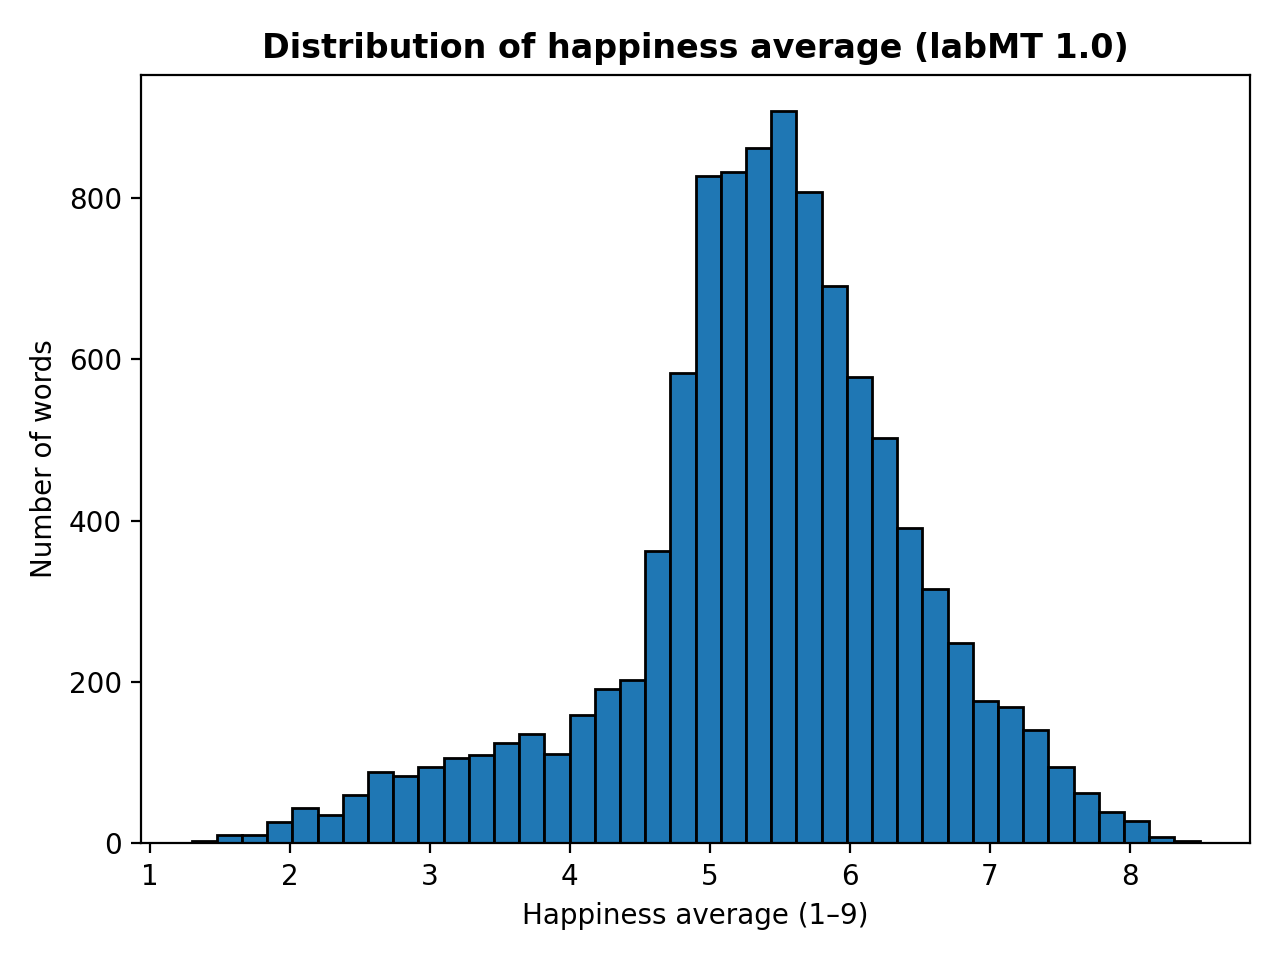
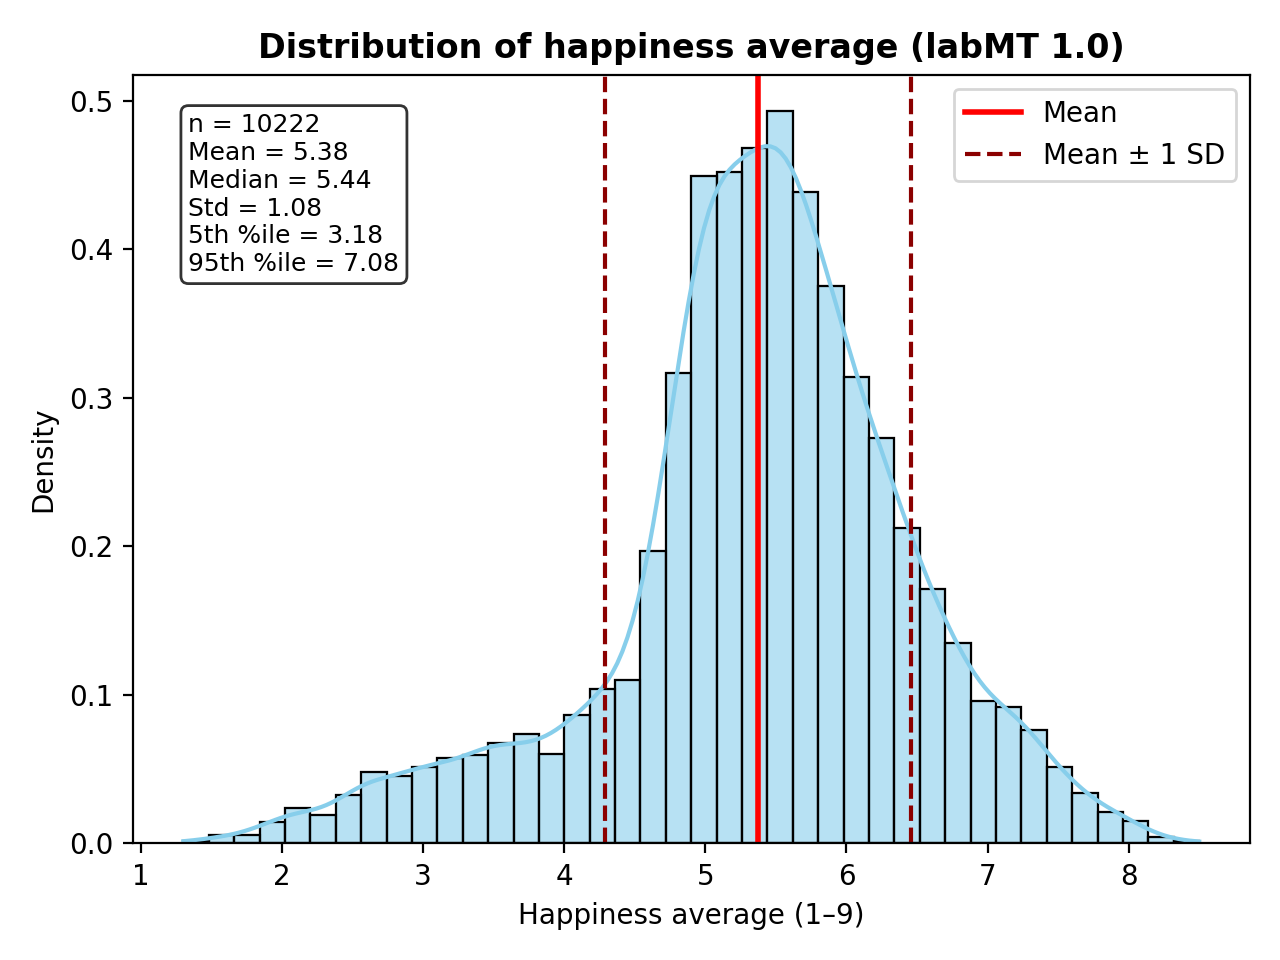
first two graphs + readme update

diff --git a/src/quantitative_exploration.py b/src/quantitative_exploration.py
@@ -58,54 +58,54 @@ def save_figure(filename: str, dpi: int = 200) -> None:
 
 def analyse_happiness_distribution(df: pd.DataFrame) -> None:
     """
-    对 happiness_average 做分布分析：
-    - 计算基本统计量（count, mean, median, std, p05, p95）
-    - 画直方图并保存到 figures/
-    - 把统计量存到 tables/
-    Analyze the distribution of happiness_average:
+    Analyse the distribution of happiness_average:
     - Calculate basic statistics (count, mean, median, std, p05, p95)
-    - Plot histogram and save to figures/
+    - Plot density histogram with KDE and vertical lines for mean and ±1 SD
     - Save statistics to tables/
     """
     print_section("2.1 Distribution of happiness_average")
 
-    # 取出 happiness_average 列，并去掉缺失值
-    # Extract the happiness_average column and remove missing values.
     h = df["happiness_average"].dropna()
 
-    # 1) 用 DataFrame 形式整理 summary statistics（方便保存和打印）
-    # 1) Organize summary statistics using DataFrame format (for easy saving and printing)
+    # Summary statistics
     summary_stats = pd.DataFrame(
         {
-            "metric": [
-                "count",
-                "mean",
-                "median",
-                "std",
-                "p05 (5th percentile)",
-                "p95 (95th percentile)",
-            ],
-            "value": [
-                float(h.shape[0]),
-                float(h.mean()),
-                float(h.median()),
-                float(h.std()),
-                float(h.quantile(0.05)),
-                float(h.quantile(0.95)),
-            ],
+            "metric": ["count", "mean", "median", "std", "p05 (5th percentile)", "p95 (95th percentile)"],
+            "value": [h.count(), h.mean(), h.median(), h.std(), h.quantile(0.05), h.quantile(0.95)],
         }
     )
-
     print(summary_stats.to_string(index=False))
     save_csv(summary_stats, "happiness_average_summary_stats.csv", index=False)
 
-    # 2) 直方图：描述 happiness_average 的分布
-    # 2) Histogram: describe the distribution of happiness_average
+    # Plot: density histogram + KDE
     plt.figure()
-    plt.hist(h, bins=40, edgecolor="black")
+    sns.histplot(h, bins=40, kde=True, stat='density', alpha=0.6, color='skyblue', edgecolor='black')
     plt.title("Distribution of happiness average (labMT 1.0)", fontweight='bold')
     plt.xlabel("Happiness average (1–9)")
-    plt.ylabel("Number of words")
+    plt.ylabel("Density")
+
+    # Add vertical lines for mean and ±1 SD
+    mean_val = summary_stats.loc[summary_stats["metric"] == "mean", "value"].values[0]
+    std_val = summary_stats.loc[summary_stats["metric"] == "std", "value"].values[0]
+
+    plt.axvline(mean_val, color='red', linestyle='-', linewidth=2, label='Mean')
+    plt.axvline(mean_val - std_val, color='darkred', linestyle='--', linewidth=1.5, label='Mean ± 1 SD')
+    plt.axvline(mean_val + std_val, color='darkred', linestyle='--', linewidth=1.5)
+
+    # Add text box with summary stats
+    stats_text = (
+        f"n = {summary_stats.loc[0, 'value']:.0f}\n"
+        f"Mean = {summary_stats.loc[1, 'value']:.2f}\n"
+        f"Median = {summary_stats.loc[2, 'value']:.2f}\n"
+        f"Std = {summary_stats.loc[3, 'value']:.2f}\n"
+        f"5th %ile = {summary_stats.loc[4, 'value']:.2f}\n"
+        f"95th %ile = {summary_stats.loc[5, 'value']:.2f}"
+    )
+    plt.gca().text(0.05, 0.95, stats_text, transform=plt.gca().transAxes,
+                   fontsize=9, verticalalignment='top',
+                   bbox=dict(boxstyle='round', facecolor='white', alpha=0.8))
+
+    plt.legend()
     plt.tight_layout()
     save_figure("hist_happiness_average.png")
     plt.close()
@@ -143,12 +143,27 @@ def analyse_disagreement(df: pd.DataFrame) -> None:
     plt.title("Disagreement vs score: happiness average vs standard deviation", fontweight='bold')
     plt.xlabel("Happiness average")
     plt.ylabel("Happiness standard deviation")
+
+    # 2) 标记标准差最大的 15 个词
+    # 2) Annotate the 15 words with highest standard deviation
+    top_contested = scatter_df.nlargest(15, "happiness_standard_deviation")
+    for _, row in top_contested.iterrows():
+        plt.annotate(
+            row["word"],
+            (row["happiness_average"], row["happiness_standard_deviation"]),
+            fontsize=7,
+            alpha=0.7,
+            xytext=(5, 5),
+            textcoords='offset points',
+            arrowprops=dict(arrowstyle='->', color='gray', lw=0.5)
+        )
+
     plt.tight_layout()
     save_figure("scatter_happiness_vs_std.png")
     plt.close()
 
-    # 2) 找出标准差最大的 15 个词（争议度最高）
-    # 2) Find the 15 words with largest standard deviation (most contested)
+    # 3) 找出标准差最大的 15 个词（争议度最高）并保存
+    # 3) Find the 15 words with largest standard deviation (most contested) and save
     most_contested_15 = (
         scatter_df.sort_values("happiness_standard_deviation", ascending=False)
         .head(15)
@@ -158,39 +173,39 @@ def analyse_disagreement(df: pd.DataFrame) -> None:
     print(most_contested_15.to_string(index=False))
 
     save_csv(most_contested_15, "top_15_contested_words.csv", index=False)
-    
-    # EXTRA: Corpus unique word rankings and disagreement
-    
+
+    # ---------------------------------------------------------------------
+    # EXTRA: Corpus unique word rankings and disagreement (unchanged)
+    # ---------------------------------------------------------------------
     print_section("Extra: Disagreement and ranking plot for copus unique words")
     # Base columns we need
     base_cols = ["word", "happiness_average", "happiness_standard_deviation"]
     rank_cols = ["twitter_rank", "google_rank", "nyt_rank", "lyrics_rank"]
-    
+
     # Corpus display names and info
     corpus_info = [
-        {'name': 'Twitter', 'column': 'twitter_rank', 'color': '#1DA1F2', 
+        {'name': 'Twitter', 'column': 'twitter_rank', 'color': '#1DA1F2',
          'filename': 'unique_twitter_words_rank_colored.png', 'title': 'Words only in Twitter'},
-        {'name': 'Google', 'column': 'google_rank', 'color': '#4285F4', 
+        {'name': 'Google', 'column': 'google_rank', 'color': '#4285F4',
          'filename': 'unique_google_words_rank_colored.png', 'title': 'Words only in Google'},
-        {'name': 'NYT', 'column': 'nyt_rank', 'color': '#000000', 
+        {'name': 'NYT', 'column': 'nyt_rank', 'color': '#000000',
          'filename': 'unique_nyt_words_rank_colored.png', 'title': 'Words only in NYT'},
-        {'name': 'Lyrics', 'column': 'lyrics_rank', 'color': '#1DB954', 
+        {'name': 'Lyrics', 'column': 'lyrics_rank', 'color': '#1DB954',
          'filename': 'unique_lyrics_words_rank_colored.png', 'title': 'Words only in Lyrics'}
     ]
-    
+
     # Create DataFrame with all needed columns
     plot_df = df[base_cols + rank_cols].copy()
-    
+
     # Drop rows where happiness values are missing
     plot_df = plot_df.dropna(subset=["happiness_average", "happiness_standard_deviation"])
-    
+
     # Convert rank columns to numeric (errors='coerce' turns '--' into NaN)
     for col in rank_cols:
         plot_df[col] = pd.to_numeric(plot_df[col], errors='coerce')
-    
+
     # Count how many corpora each word appears in
     plot_df['n_corpora'] = plot_df[rank_cols].notna().sum(axis=1)
-
 
     # Scatter plot: average happiness vs standard deviation -> words in only one corpus and their frequency
     # Create separate plots for each corpus
@@ -198,38 +213,25 @@ def analyse_disagreement(df: pd.DataFrame) -> None:
     for corpus in corpus_info:
         # Words that are ONLY in this corpus (appear in exactly 1 corpus AND that corpus is this one)
         only_in_this = (
-            (plot_df['n_corpora'] == 1) & 
+            (plot_df['n_corpora'] == 1) &
             (plot_df[corpus['column']].notna())
         )
 
-        # All words that are in this corpus
-        # words_in_corpus = plot_df[corpus['column']].notna()
-        
         # Get the unique words for this corpus
-        unique_words = plot_df[only_in_this].copy() # change variable name according to previous line
-        
+        unique_words = plot_df[only_in_this].copy()
+
         # Create the plot
         plt.figure(figsize=(10, 8))
 
         # Plot unique words colored by rank (lower rank = darker color)
         if len(unique_words) > 0:
-            # For rank: lower number = more frequent = darker color
-            # We'll invert the rank so that frequent words (rank 1) get darkest color
-            max_rank = 5000  # Since ranks go up to 5000
-            
-            # Create a color map: darker = more frequent (lower rank)
-            
-            # Normalize rank to 0-1 range, but invert so frequent = 1, rare = 0:
-            # norm_rank = 1 - (unique_words[corpus['column']] / max_rank)
-            
             actual_ranks = unique_words[corpus['column']]
 
             scatter = plt.scatter(
                 unique_words["happiness_average"],
                 unique_words["happiness_standard_deviation"],
                 s=50,
-                alpha=1, # fixed alpha for normalised
-                # alpha=opacity,
+                alpha=1,
                 c=actual_ranks,
                 cmap='PuRd_r',  # _r for reversed
                 edgecolors='lightgrey',
@@ -240,27 +242,24 @@ def analyse_disagreement(df: pd.DataFrame) -> None:
             # Add colorbar
             cbar = plt.colorbar(scatter)
             cbar.set_label('Frequency rank (low number = more frequent)', fontsize=10)
-            
-            # Create custom legend entries for rank ranges
+
             n_unique = len(unique_words)
-            
-            # Add annotation with rank stats
             median_rank = unique_words[corpus['column']].median()
             min_rank = unique_words[corpus['column']].min()
             max_rank_val = unique_words[corpus['column']].max()
 
-            plt.text(0.02, 0.09, 
+            plt.text(0.02, 0.09,
                      f'Unique words: {n_unique}\nRank range: {min_rank:.0f} - {max_rank_val:.0f}\nMedian rank: {median_rank:.0f}',
                      transform=plt.gca().transAxes,
                      verticalalignment='top',
                      bbox=dict(boxstyle='round', facecolor='white', alpha=0.8))
-        
-            plt.title(f"{corpus['title']}\nColored by frequency rank (darker = more frequent)", 
-                 fontsize=14, fontweight='bold')
+
+            plt.title(f"{corpus['title']}\nColored by frequency rank (darker = more frequent)",
+                      fontsize=14, fontweight='bold')
         else:
             plt.title(f"{corpus['title']}\nNo unique words found", fontsize=14, fontweight='bold')
-            plt.text(0.5, 0.5, f"No words unique to {corpus['name']}", 
-                 ha='center', va='center', fontsize=14, transform=plt.gca().transAxes)
+            plt.text(0.5, 0.5, f"No words unique to {corpus['name']}",
+                     ha='center', va='center', fontsize=14, transform=plt.gca().transAxes)
         plt.xlabel("Happiness average", fontsize=12)
         plt.ylabel("Happiness standard deviation", fontsize=12)
         plt.grid(True, alpha=0.3)
@@ -268,8 +267,8 @@ def analyse_disagreement(df: pd.DataFrame) -> None:
         save_figure(corpus['filename'])
         plt.close()
         print(f"Saved: {corpus['filename']} with {len(unique_words)} unique words")
-# ----- end of code for extra figures -----
-        
+    # ----- end of extra code -----
+
     return most_contested_15
 
 

diff --git a/src/plot_happiness.py b/src/plot_happiness.py
@@ -1,6 +1,6 @@
 # src/plot_happiness.py
 from pathlib import Path
-from analysis import plot_ridgeline_with_stats
+# from analysis import plot_ridgeline_with_stats
 
 import matplotlib.pyplot as plt
 import pandas as pd
@@ -160,7 +160,7 @@ def main():
     axes[0].legend(handles=legend_handles, title='Legend', loc='upper left', fontsize=11)
 
     plt.tight_layout()
-    out3 = figures_dir / "happiness_faceted_density_by_section.png"
+    out3 = figures_dir / "happiness_by_section_and_period_boxplot.png.png"
     plt.savefig(out3, dpi=300)
     plt.close()
     print(f"Saved {out3}")

diff --git a/README.md b/README.md
@@ -190,7 +190,7 @@ We first imported the cleaned dataset using the function load_labmt from the dat
 #### Distribution of happiness scores
 
 ![Figure 1](figures/hist_happiness_average.png)
-***Figure 1:*** The histogram shows frequency of word appearences across happiness for all 10022 words in the labMT 1.0 dataset. 
+***Figure 1:*** Density‑normalised histogram of happiness scores for all words in the labMT 1.0 dataset, overlaid with a kernel density estimate (KDE). Vertical lines mark the mean (solid red) and mean ± 1 standard deviation (dashed dark red). A text box shows summary statistics. 
 
 **Interpretation:** Happiness scores in the labMT lexicon follow an approximately normal distribution centered slightly above neutral (~5.4), indicating a well-known positivity bias in human language where most words are neutral to mildly positive and strongly valenced words are comparatively rare.
 
@@ -219,7 +219,7 @@ Disagreement, in turn, reveals the limits of this consensus. The category of hig
 
 
 ![Figure 2](figures/scatter_happiness_vs_std.png)
-***Figure 2:** Scatter plot for word occurences by their happiness scores against happiness standard deviations*
+***Figure 2:** Scatter plot of happiness average (x‑axis) vs. standard deviation (y‑axis). The 15 words with the highest standard deviation are labelled*
 
 We deliberately chose polarizing words as an additional word category. While polarizing words are by definition highly contested, their  happiness score is near neutral. In contrast with other highly contested words, which may still lean slightly positive or negative overall, the polarizing category shows how strong disagreement can completely hide behind a neutral score, revealing polysemy or a deep meaning-making divide in society. Why is that important? Because it is hard to discern the specificities and intricacies of the conflict that occurs when trying to define meaning. While the divide in words whose original meaning is imply layered with a new one (for instance, `slut` as an offensive word being used as a form of empowerment within specific communities) still preserves a positive or negative inclination according to the strength of the metonymy-in-process, polarizing words reveal the symmetrical heterogeneity of the metonymies that have been embedded popular culture. Words like `pay` become problematized in relation to another concept that appears to be polarizing, namely `capitalism`. 
 
@@ -380,7 +380,7 @@ Figure 2 displays the distributions by section (ignoring period). Politics artic
 
 Figure 3 presents boxplots for each section‑period group, highlighting medians, quartiles, and outliers. The decrease in Politics over time is evident, while Opinion appears to increase slightly.
 
-![Boxplot of happiness by section and period](figures/happiness_by_section_and_period_boxplot.png)  
+![Boxplot of happiness by section and period](figures\happiness_by_section_and_period_boxplot.png)  
 ***Figure 7:** Boxplot of happiness scores for each section and period.*
 
 ### Inferential Statistics
@@ -393,12 +393,12 @@ The mean happiness across all sections in 2020‑23 was <!-- [DIFF]--> **-0.088*
 Fig 4 shows the bootstrap distribution of this difference; the red line is the observed difference, and the blue dashed lines mark the 95% CI.
 
 ![Bootstrap distribution of the overall period difference](figures/bootstrap_period_difference.png)  
-*Figure 4: Bootstrap distribution of the mean difference (2020‑23 minus 2010‑13). The red line is the observed difference, blue dashed lines are the 95% CI.*
+***Figure 8:** Bootstrap distribution of the mean difference (2020‑23 minus 2010‑13). The red line is the observed difference, blue dashed lines are the 95% CI.*
 
 Fig 5 displays the bootstrap distributions of the mean happiness for each period (all sections combined). The separation between the two distributions reflects the uncertainty around the period means and confirms the downward shift.
 
 ![Bootstrap distributions of means by period (pooling sections)](figures/bootstrap_means_by_period_pooled.png)  
-*Figure 5: Bootstrap distributions of the mean happiness for each period, showing the uncertainty around the period means (all sections combined).*
+***Figure 9:** Bootstrap distributions of the mean happiness for each period, showing the uncertainty around the period means (all sections combined).*
 
 **Critical analysis**
 The overall slight decrease in happiness noticed in our dataset between the two periods (2010-2013 and 2020-2023) could be partly attributed to broader changes in the global political and social context of each era. Especially the years after 2020 have seen several major global crises, such as the COVID-19 pandemic and geopolitical conflicts such as the wars in Ukraine and Gaza. These events could be used to think of why there could be a general negative sentiment shift in media coverage. It is important to mention that the point is not to conclude that the second period has more extreme events or has seen worse incidents but we could use major crisis events during the second interval to begin to explain the emotional shifts in our examined dataset.
@@ -449,8 +449,12 @@ Pairwise comparisons (ignoring period) reveal:
 
 Thus, Politics articles consistently score higher than the other two sections, while World news and Opinion are statistically similar.
 
+![Bootstrap distribution of the overall period difference](figures/combined_comparison2.png)  
+***Figure 10:** Bootstrap distribution of the mean difference (Politics minus World news, Opinion minus world news, Opinion minus Politics). The red line is the observed difference, blue dashed lines are the 95% CI.*
+
+
 ![Bootstrap distributions of means by section (pooling periods)](figures/bootstrap_means_by_section.png)  
-*Figure 6: Bootstrap distributions of the mean happiness for each section, showing the sampling variability of the section means.*
+***Figure 11:** Bootstrap distributions of the mean happiness for each section, showing the sampling variability of the section means.*
 
 **Critical analysis**
 
@@ -495,12 +499,12 @@ Looking at sections overall helps to explain differences in reporting styles and
 Fig 7 presents the bootstrap distributions of the mean for each section‑period group, allowing direct visual comparison of the uncertainty and central tendency for the two periods within each section. The separation (or overlap) between the 2010‑13 and 2020‑23 distributions for each section reflects the evidence for a change
 
 ![Bootstrap distributions of means by section and period](figures/bootstrap_means_by_section_and_period.png)  
-*Figure 7: Bootstrap distributions of the mean happiness for each section‑period group.*
+***Figure 12:** Bootstrap distributions of the mean happiness for each section‑period group.*
 
 Fig 8 shows the point estimates with 95% confidence intervals for each group, making it easy to see the magnitude and uncertainty of the differences.
 
 ![Mean happiness by section and period with 95% CI](figures/mean_ci_by_section_period.png)  
-*Figure 8: Point plot with 95% confidence intervals for each section‑period group.*
+***Figure 13:** Point plot with 95% confidence intervals for each section‑period group.*
 
 **Critical analysis**
 
@@ -643,14 +647,14 @@ By examining our sample of The Guardian articles as they appear in [](data/proce
 Regarding the entirety of our sample of The Guardian, the intensity of populism (*Figure 9:* Left Panel) in each senction has increased in a largely proportinate manner in 2020-2023 compared to 2010-2013, with Politics being the section with the most populist terms per 1000 words, followed by Opinion and World News. However, this symmetry does not translate to the prevalence of populist articles (*Figure 9:* Right Panel). While the percentage of World News articles icluding at least one populist term has stayed exactly the same (at least to the 6th decimal), Politics has seen an increase from just under 40% to over 45%. Although a rise in populism in article with political content can be on par with populist and nationalist rhetoric in the UK political scene, what seems particularly interesting (and quite concerning) is the surge of populist articles in The Guardian's Opinion section, which doubled (from  16% to just over 38%).
 
 ![Intensity and Prevalence of populist terms in entirety of sample](figures/fig_populism_whole_sample_pointline.png)  
-*Figure 9: The Intensity and Prevalence of populist terms per section per period in the entirety of our sample of the Guardian.*
+***Figure 14:** The Intensity and Prevalence of populist terms per section per period in the entirety of our sample of the Guardian.*
 
 By focusing on the populist articles per section per period, we can gauge what the aforementioned trends mean for the subset of articles in question (*Figure 10*). Such a 'zooming in' is meant to supplement and help with the interpretation of the populism measurements in the overall sample. Populism intensity of populist articles in Politics and World News shows an increase of approximately 1 and 1.5 words per 1000 words respectively (*Figure 10:* Left Panel). Given the moderate increase in the intensity and prevalence of populism in both categories relating to the entire sample (*Figure 9*), such a trend seems logical. However, what we consider particularly worth mentioning is that the intensity of populism in populist Opinion articles experienced a drop of about 0.7 per 1000 words (*Figure 10:* Left Panel), meaning that while more articles in 2020-2023 contained at least one populist term (*Figure 9:* Right Panel), that upsurge was mitigated by a lower subset intensity.
 
 In addition to reporting on populist tendencies in The Guardian, the right panel in *Figure 10* relates populist articles to their mean happiness scores, as measured using the labMT 1.0 dataset. Overall, the happiness of populist articles seems to converge in 2020-2023, with the happiest section, namely 2010-2013 World News, showing a 0.3 drop in the 1-9 scale in 2020-2023. Although the populist Opinions section in 2010-2013 appears to be the least happy instance in the data, it also appears to have seen the sharpest increase in happiness, becomign the happiest one in 2020-2023. The increase in populist Politics articles' happiness is limited to the second decimal, marking a steady emotional register through the years. 
 
 ![Intensity and Mean Happiness Score in articles with >= 1 populist term](figures/fig_populism_populist_articles_pointline.png)  
-*Figure 10: The Intensity of populist terms and Mean Happiness Score of articles with at least one populist term.*
+***Figure 15:** The Intensity of populist terms and Mean Happiness Score of articles with at least one populist term.*
 
 Relating back to the happiness scores per section per article in **Comparison 3** (*Figure 7*), while in the entire sample of The Guardian the 2010-2013 Politics section was the happiest, experiencing a drop in 2020-2023, among populist articles it is 2010-2013 World News that has the first place, with a visible drop in 2020-2023 which does not reflect in the overall corpus. Saddest sections in both the entire sample and the populist subset is Opinion 2010-2013. However, populist Opinion articles become slighly happier than Politics in 2020-2023, due to the former's sharper increase in happiness. This is not matched in the overall sample, with Politics remaining the happiest section per period.
 
